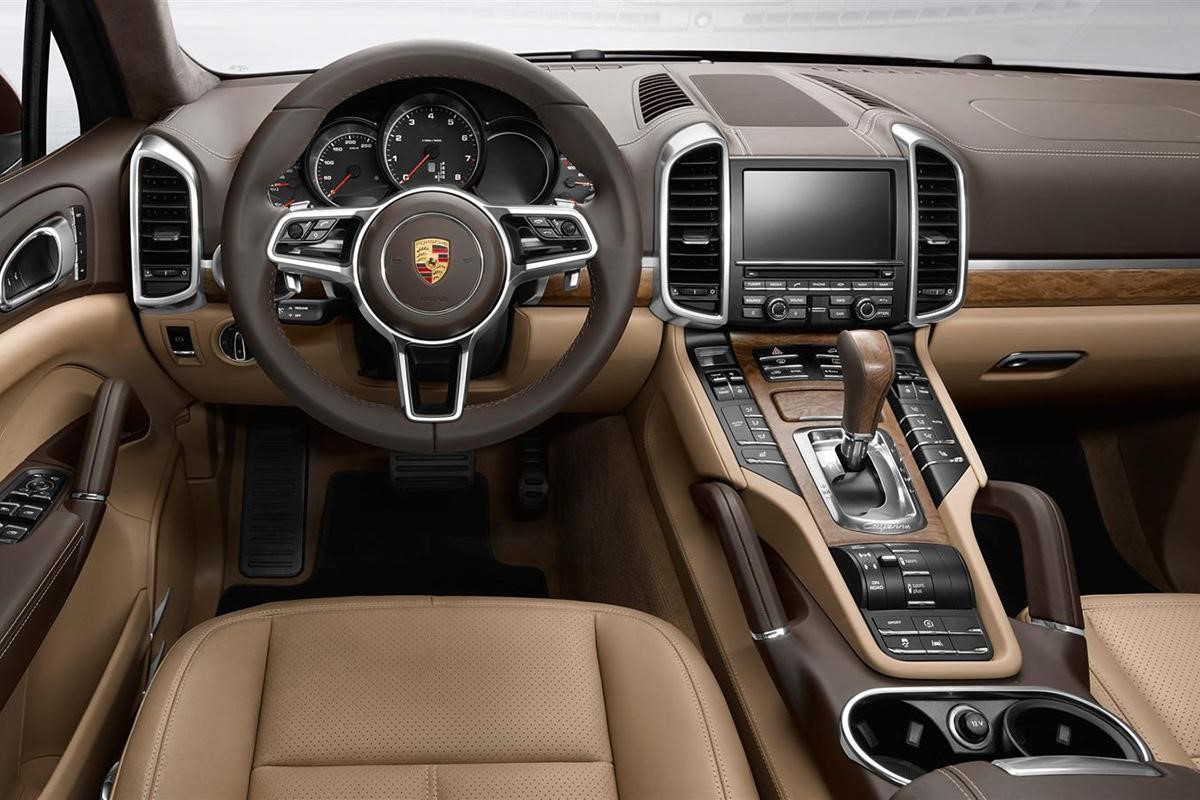
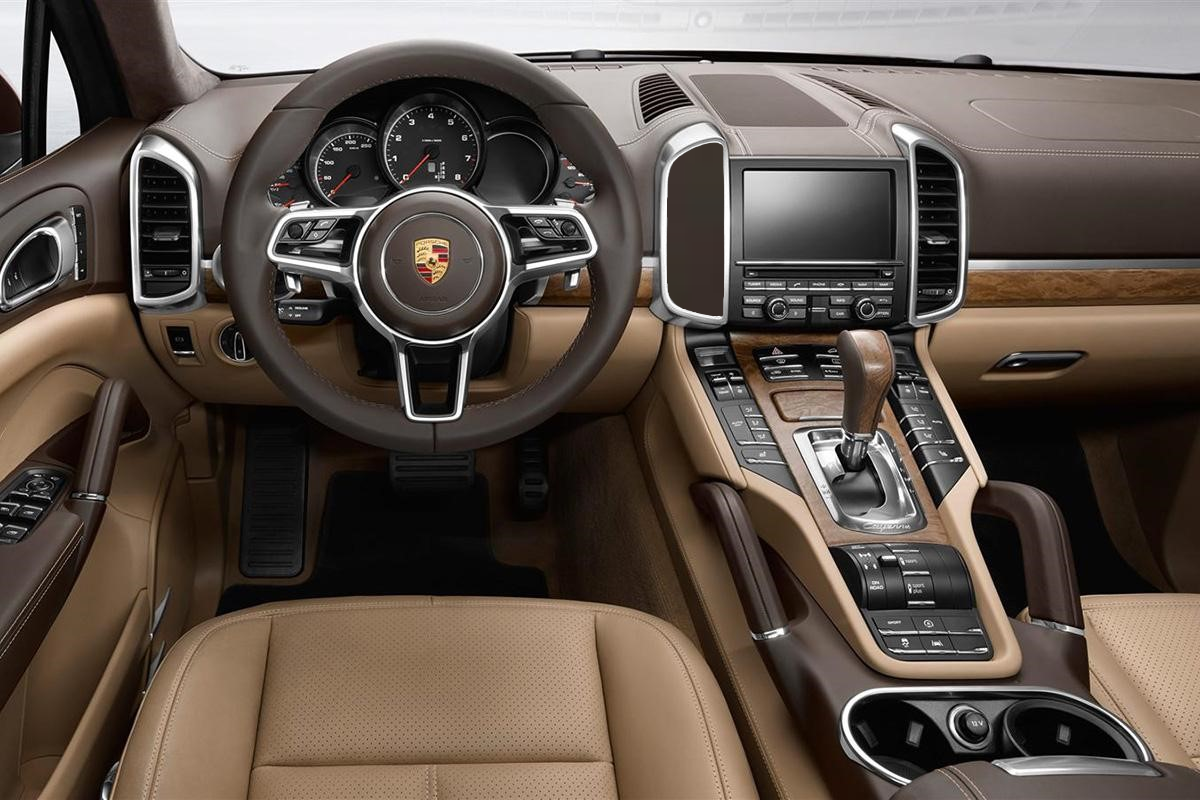
Dash Change

Changed region(s): [[0.555, 0.1562, 0.6167, 0.4062]]

diff --git a/Visual_Porsche/Test_Drive.py b/Visual_Porsche/Test_Drive.py
@@ -22,9 +22,13 @@ Palanca_Dir_Der = PhotoImage(file="direccional_derecha.png")
 Emergency = PhotoImage(file="emergencia_mini.png")
 Headlights_Off = PhotoImage(file="off.png")
 Headlights_On = PhotoImage(file="on.png")
-
-
-
+Drive = PhotoImage(file="flecha_arriba.png")
+Reverse = PhotoImage(file="flecha_abajo.png")
+ZIGZAG = PhotoImage(file="zigzag_apagado.png")
+INFINITE = PhotoImage(file="infinito_apagado.png")
+CIRCLE = PhotoImage(file="circulo_apagado.png")
+Winner = PhotoImage(file="Celebracion.png")
+CUSTOM = PhotoImage(file='movimiento_especial_apagado.png')
 #           ____________________________
 #__________/VENTANA PRINCIPAL
 class Test_Drive_Ventana_Principal:
@@ -32,7 +36,8 @@ class Test_Drive_Ventana_Principal:
                  Dir_Izq_Default_TestDrive, Dir_Der_Default_TestDrive, Pedal_Clutch_TestDrive,
                  Pedal_Break_TestDrive, Pedal_Accelerator_TestDrive, Palanca_Dir_Izq_TestDrive,
                  Palanca_Dir_Der_TestDrive, Emergency_TestDrive, Headlights_Off_TestDrive,
-                 Headlights_On_TestDrive):
+                 Headlights_On_TestDrive, Drive_TestDrive, Reverse_TestDrive, ZIGZAG_TestDrive,
+                 INFINITE_TestDrive, CIRCLE_TestDrive, Winner_TestDrive, CUSTOM_TestDrive):
         #           ____________________________
         #__________/VARIABLES PRIVADAS
         self.Root_TestDrive = Root_TestDrive
@@ -49,7 +54,13 @@ class Test_Drive_Ventana_Principal:
         self.Emergency_TestDrive = Emergency_TestDrive
         self.Headlights_Off_TestDrive = Headlights_Off_TestDrive
         self.Headlights_On_TestDrive = Headlights_On_TestDrive
-        
+        self.Drive_TestDrive = Drive_TestDrive
+        self.Reverse_TestDrive = Reverse_TestDrive
+        self.ZIGZAG_TestDrive = ZIGZAG_TestDrive
+        self.INFINITE_TestDrive = INFINITE_TestDrive
+        self.CIRCLE_TestDrive = CIRCLE_TestDrive
+        self.Winner_TestDrive = Winner_TestDrive
+        self.CUSTOM_TestDrive = CUSTOM_TestDrive
         
         #           ____________________________
         #__________/CONSTRUCTOR DE VENTANA
@@ -59,20 +70,27 @@ class Test_Drive_Ventana_Principal:
         
         Label_Fondo_TestDrive = Label( Root_TestDrive, image = Fondo_TestDrive).place(x=0,y=0)
         Label_Volante = Label( Root_TestDrive,image = Volante_TestDrive).place(x=1202,y=0)
-        Label_Dir_Izq_Default = Label( Root_TestDrive, image = Dir_Izq_Default_TestDrive).place(x=1202,y=500)
-        Label_Dir_Der_Default = Label( Root_TestDrive, image = Dir_Der_Default_TestDrive).place(x=1340,y=500)
+        Label_Dir_Izq_Default = Label( Root_TestDrive, image = Dir_Izq_Default_TestDrive).place(x=1202,y=280)
+        Label_Dir_Der_Default = Label( Root_TestDrive, image = Dir_Der_Default_TestDrive).place(x=1342,y=280)
+        
 
-        Button_Pedal_Clutch_TestDrive = Button( Root_TestDrive, image = Pedal_Clutch_TestDrive).place(x=245,y=440)
-        Button_Pedal_Break_TestDrive = Button( Root_TestDrive, image = Pedal_Break_TestDrive).place(x=400,y=440)
-        Button_Pedal_Accelerator_TestDrive = Button( Root_TestDrive, image = Pedal_Accelerator_TestDrive).place(x=514,y=440)
-        Button_Palanca_Dir_Izq_TestDrive = Button( Root_TestDrive, image = Palanca_Dir_Izq_TestDrive).place(x=275,y=298)
-        Button_Palanca_Dir_Der_TestDrive = Button( Root_TestDrive, image = Palanca_Dir_Der_TestDrive).place(x=515,y=298)
-        Button_Emergency_TestDrive = Button( Root_TestDrive, image = Emergency_TestDrive).place(x=420,y=370)
-        Button_Headlights_On_TestDrive1 = Button( Root_TestDrive, image = Headlights_On_TestDrive, command = self.Frontales_Off).place(x=1202,y=280)
-        Button_Headlights_Off_TestDrive = Button( Root_TestDrive, image = Headlights_Off_TestDrive, command = self.Frontales_On).place(x=1202,y=280)
+        Button_Pedal_Clutch_TestDrive = Button( Root_TestDrive, image = Pedal_Clutch_TestDrive, bd=0).place(x=245,y=440)
+        Button_Pedal_Break_TestDrive = Button( Root_TestDrive, image = Pedal_Break_TestDrive, bd=0).place(x=400,y=440)
+        Button_Pedal_Accelerator_TestDrive = Button( Root_TestDrive, image = Pedal_Accelerator_TestDrive, bd=0).place(x=514,y=440)
+        Button_Palanca_Dir_Izq_TestDrive = Button( Root_TestDrive, image = Palanca_Dir_Izq_TestDrive, bd=0).place(x=275,y=298)
+        Button_Palanca_Dir_Der_TestDrive = Button( Root_TestDrive, image = Palanca_Dir_Der_TestDrive, bd=0).place(x=515,y=298)
+        Button_Emergency_TestDrive = Button( Root_TestDrive, image = Emergency_TestDrive, bd=0).place(x=420,y=370)
+        Button_Headlights_On_TestDrive1 = Button( Root_TestDrive, image = Headlights_On_TestDrive, command = self.Frontales_Off).place(x=1202,y=353)
+        Button_Headlights_Off_TestDrive = Button( Root_TestDrive, image = Headlights_Off_TestDrive, command = self.Frontales_On).place(x=1202,y=353)
         
+        Button_Drive_TestDrive = Button( Root_TestDrive, image = Drive_TestDrive).place(x=865,y=340)
+        Button_Reverse_TestDrive = Button( Root_TestDrive, image = Reverse_TestDrive).place(x=865,y=367)
+        Button_Winner_TestDrive = Button( Root_TestDrive, image = Winner_TestDrive).place(x=1358,y=353)
+        Button_CIRCLE_TestDrive = Button( Root_TestDrive, image = CIRCLE_TestDrive, bd=0).place(x=683,y=230)
+        Button_ZIGZAG_TestDrive = Button( Root_TestDrive, image = ZIGZAG_TestDrive, bd=0).place(x=703,y=175)
+        Button_INFINITE_TestDrive = Button( Root_TestDrive, image = INFINITE_TestDrive, bd=0).place(x=673,y=175)
+        Button_CUSTOM_TestDrive = Button( Root_TestDrive, image = CUSTOM_TestDrive, bd=0).place(x=683,y=265)
         
-       
         
         Root_TestDrive.mainloop()
         
@@ -80,15 +98,25 @@ class Test_Drive_Ventana_Principal:
         #__________/LUCES FRONTALES
     def Frontales_On(self):
         print("Headlights On")
-        Button_Headlights_On_TestDrive = Button( self.Root_TestDrive, image = self.Headlights_On_TestDrive, command = self.Frontales_Off).place(x=1202,y=280)
+        Button_Headlights_On_TestDrive = Button( self.Root_TestDrive, image = self.Headlights_On_TestDrive, command = self.Frontales_Off).place(x=1202,y=353)
        
     def Frontales_Off(self):
         print("Headlights Off")
-        Button_Headlights_Off_TestDrive = Button( self.Root_TestDrive, image = self.Headlights_Off_TestDrive, command = self.Frontales_On).place(x=1202,y=280)
+        Button_Headlights_Off_TestDrive = Button( self.Root_TestDrive, image = self.Headlights_Off_TestDrive, command = self.Frontales_On).place(x=1202,y=353)
+
+
+
         
 #           ____________________________
 #__________/INICIAR
 Test_Drive_Ventana_Principal(Root, Fondo, Icono, Volante, Dir_Izq_Default, Dir_Der_Default,
                              Pedal_Clutch, Pedal_Break, Pedal_Accelerator, Palanca_Dir_Izq,
-                             Palanca_Dir_Der, Emergency, Headlights_Off, Headlights_On)
+                             Palanca_Dir_Der, Emergency, Headlights_Off, Headlights_On, Drive,
+                             Reverse, ZIGZAG, INFINITE, CIRCLE, Winner, CUSTOM)
+
+
+
+
+
+
 Root.mainloop()
